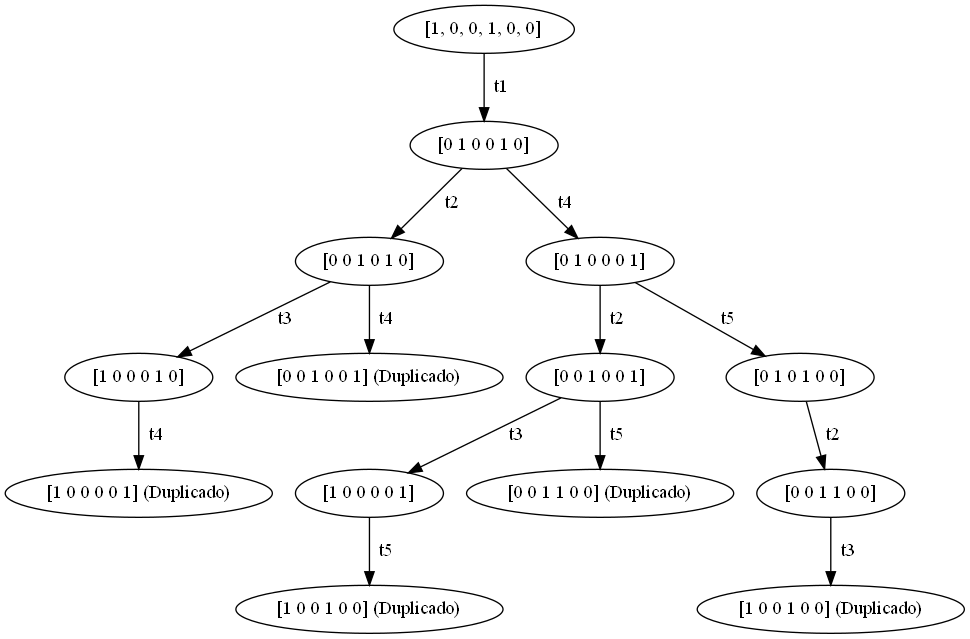
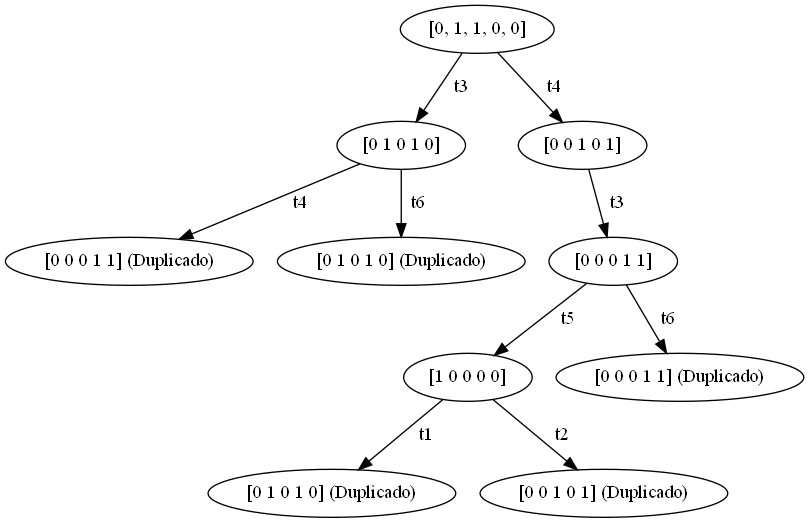
Despues de revision

diff --git a/petri.py b/petri.py
@@ -21,7 +21,7 @@ def createN(count, marcado):
 
 def createA(count1, count2, label):
     dot.edge(str(count1), str(count2), "  " + label)
-
+"""
 pre = [[1, 0, 0, 0, 0],
        [0, 1, 0, 0, 0],
        [0, 0, 1, 0, 0],
@@ -31,7 +31,7 @@ pre = [[1, 0, 0, 0, 0],
 PRE = np.array(pre)
 post = [[0, 0, 1, 0, 0],
         [1, 0, 0, 0, 0],
-        [0, 1, 0, 0, 0],
+        [0, 2, 0, 0, 0],
         [0, 0, 0, 0, 1],
         [1, 0, 0, 0, 0],
         [0, 0, 0, 1, 0]]
@@ -39,6 +39,23 @@ POST = np.array(post)
 INC = POST - PRE
 
 marcado = [1, 0, 0, 1, 0, 0]
+"""
+pre=[[1,1,0,0,0,0],
+     [0,0,0,1,0,0],
+     [0,0,1,0,0,0],
+     [0,0,0,0,1,1],
+     [0,0,0,0,1,0],]
+
+post=[[0,0,0,0,1,0],
+     [1,0,0,0,0,0],
+     [0,1,0,0,0,0],
+     [1,0,1,0,0,1],
+     [0,1,0,1,0,0],]
+PRE=np.array(pre)
+POST=np.array(post)
+marcado=[0,1,1,0,0]
+INC = POST - PRE
+
 newPre = transpose(PRE)
 newPost = transpose(POST)
 newInc = transpose(INC)

diff --git a/alcanzabilidad.py b/alcanzabilidad.py
@@ -52,7 +52,7 @@ def generar_grafo(pre, post, marcado_inicial):
 
     dot.render('Alcanzable', format='png')
 
-pre = [[1, 0, 0, 0, 0],
+"""pre = [[1, 0, 0, 0, 0],
        [0, 1, 0, 0, 0],
        [0, 0, 1, 0, 0],
        [1, 0, 0, 0, 0],
@@ -64,7 +64,20 @@ post = [[0, 0, 1, 0, 0],
         [0, 0, 0, 0, 1],
         [1, 0, 0, 0, 0],
         [0, 0, 0, 1, 0]]
-marcado_inicial = [1, 0, 0, 1, 0, 0]
+marcado_inicial = [1, 0, 0, 1, 0, 0]"""
 
-generar_grafo(pre, post, marcado_inicial)
+pre=[[1,1,0,0,0,0],
+     [0,0,0,1,0,0],
+     [0,0,1,0,0,0],
+     [0,0,0,0,1,1],
+     [0,0,0,0,1,0],]
+
+post=[[0,0,0,0,1,0],
+     [1,0,0,0,0,0],
+     [0,1,0,0,0,0],
+     [1,0,1,0,0,1],
+     [0,1,0,1,0,0],]
+marcado=[0,1,1,0,0]
+
+generar_grafo(pre, post, marcado)
 print("Liston :D")
